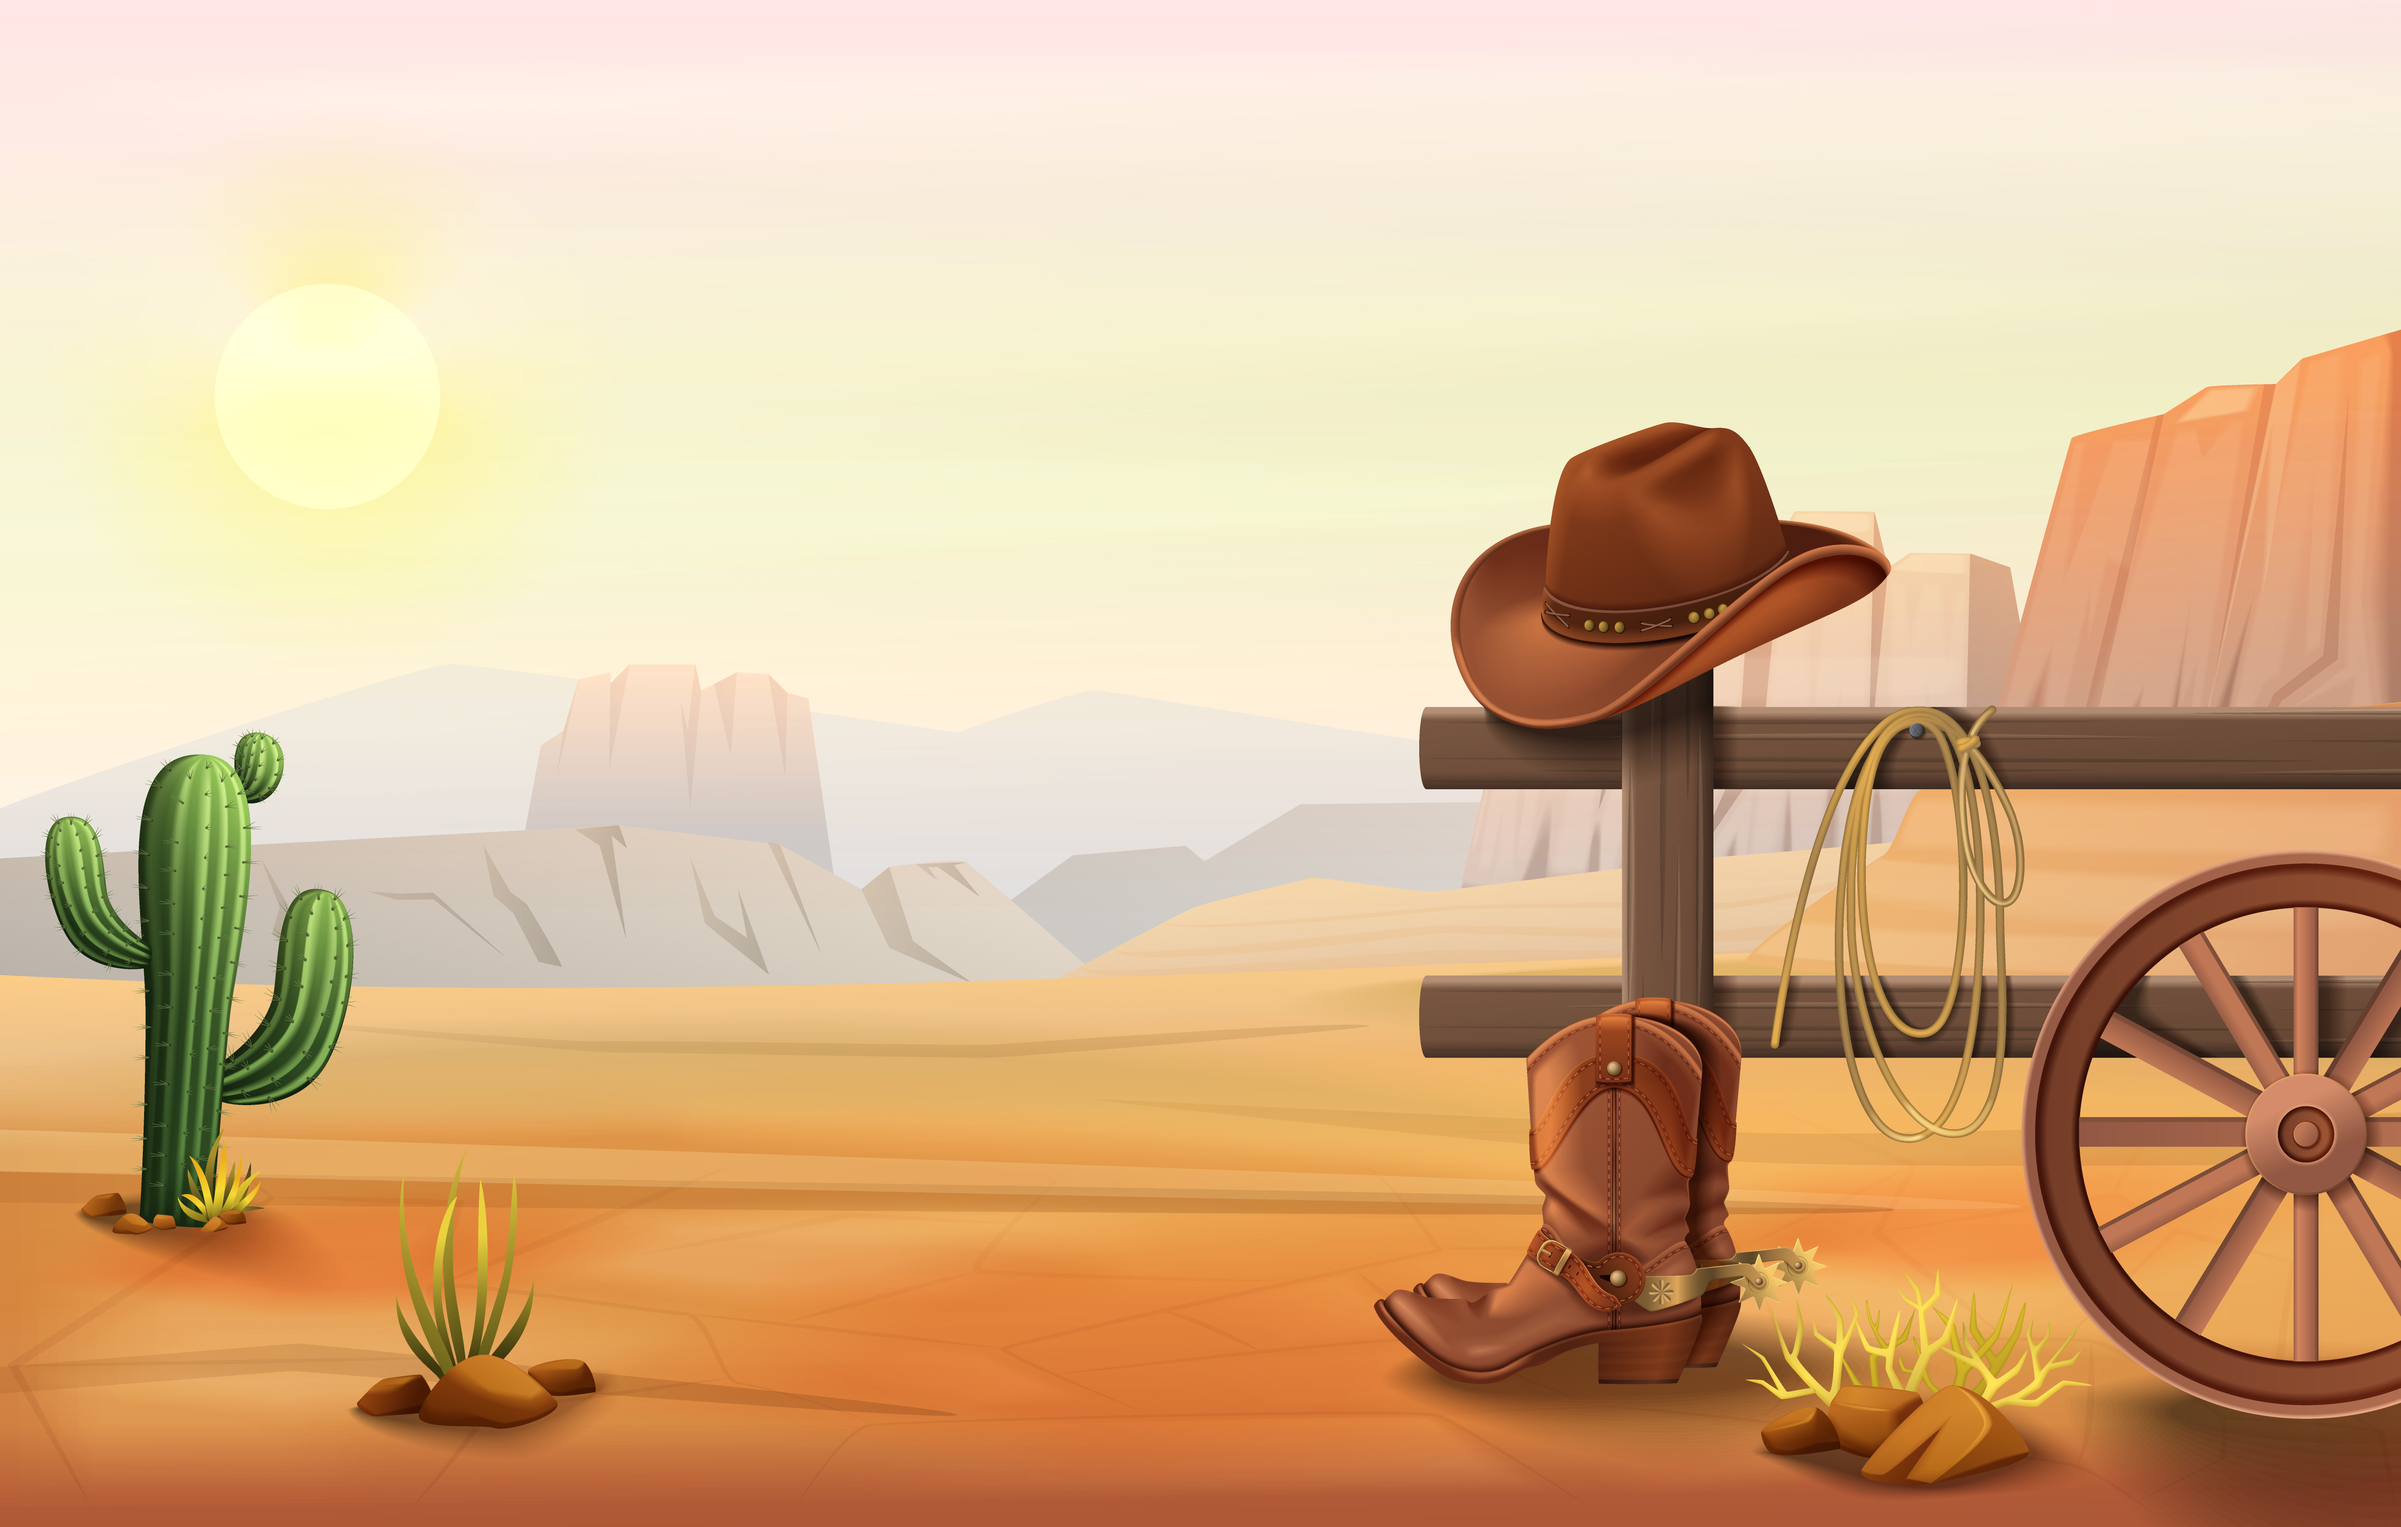
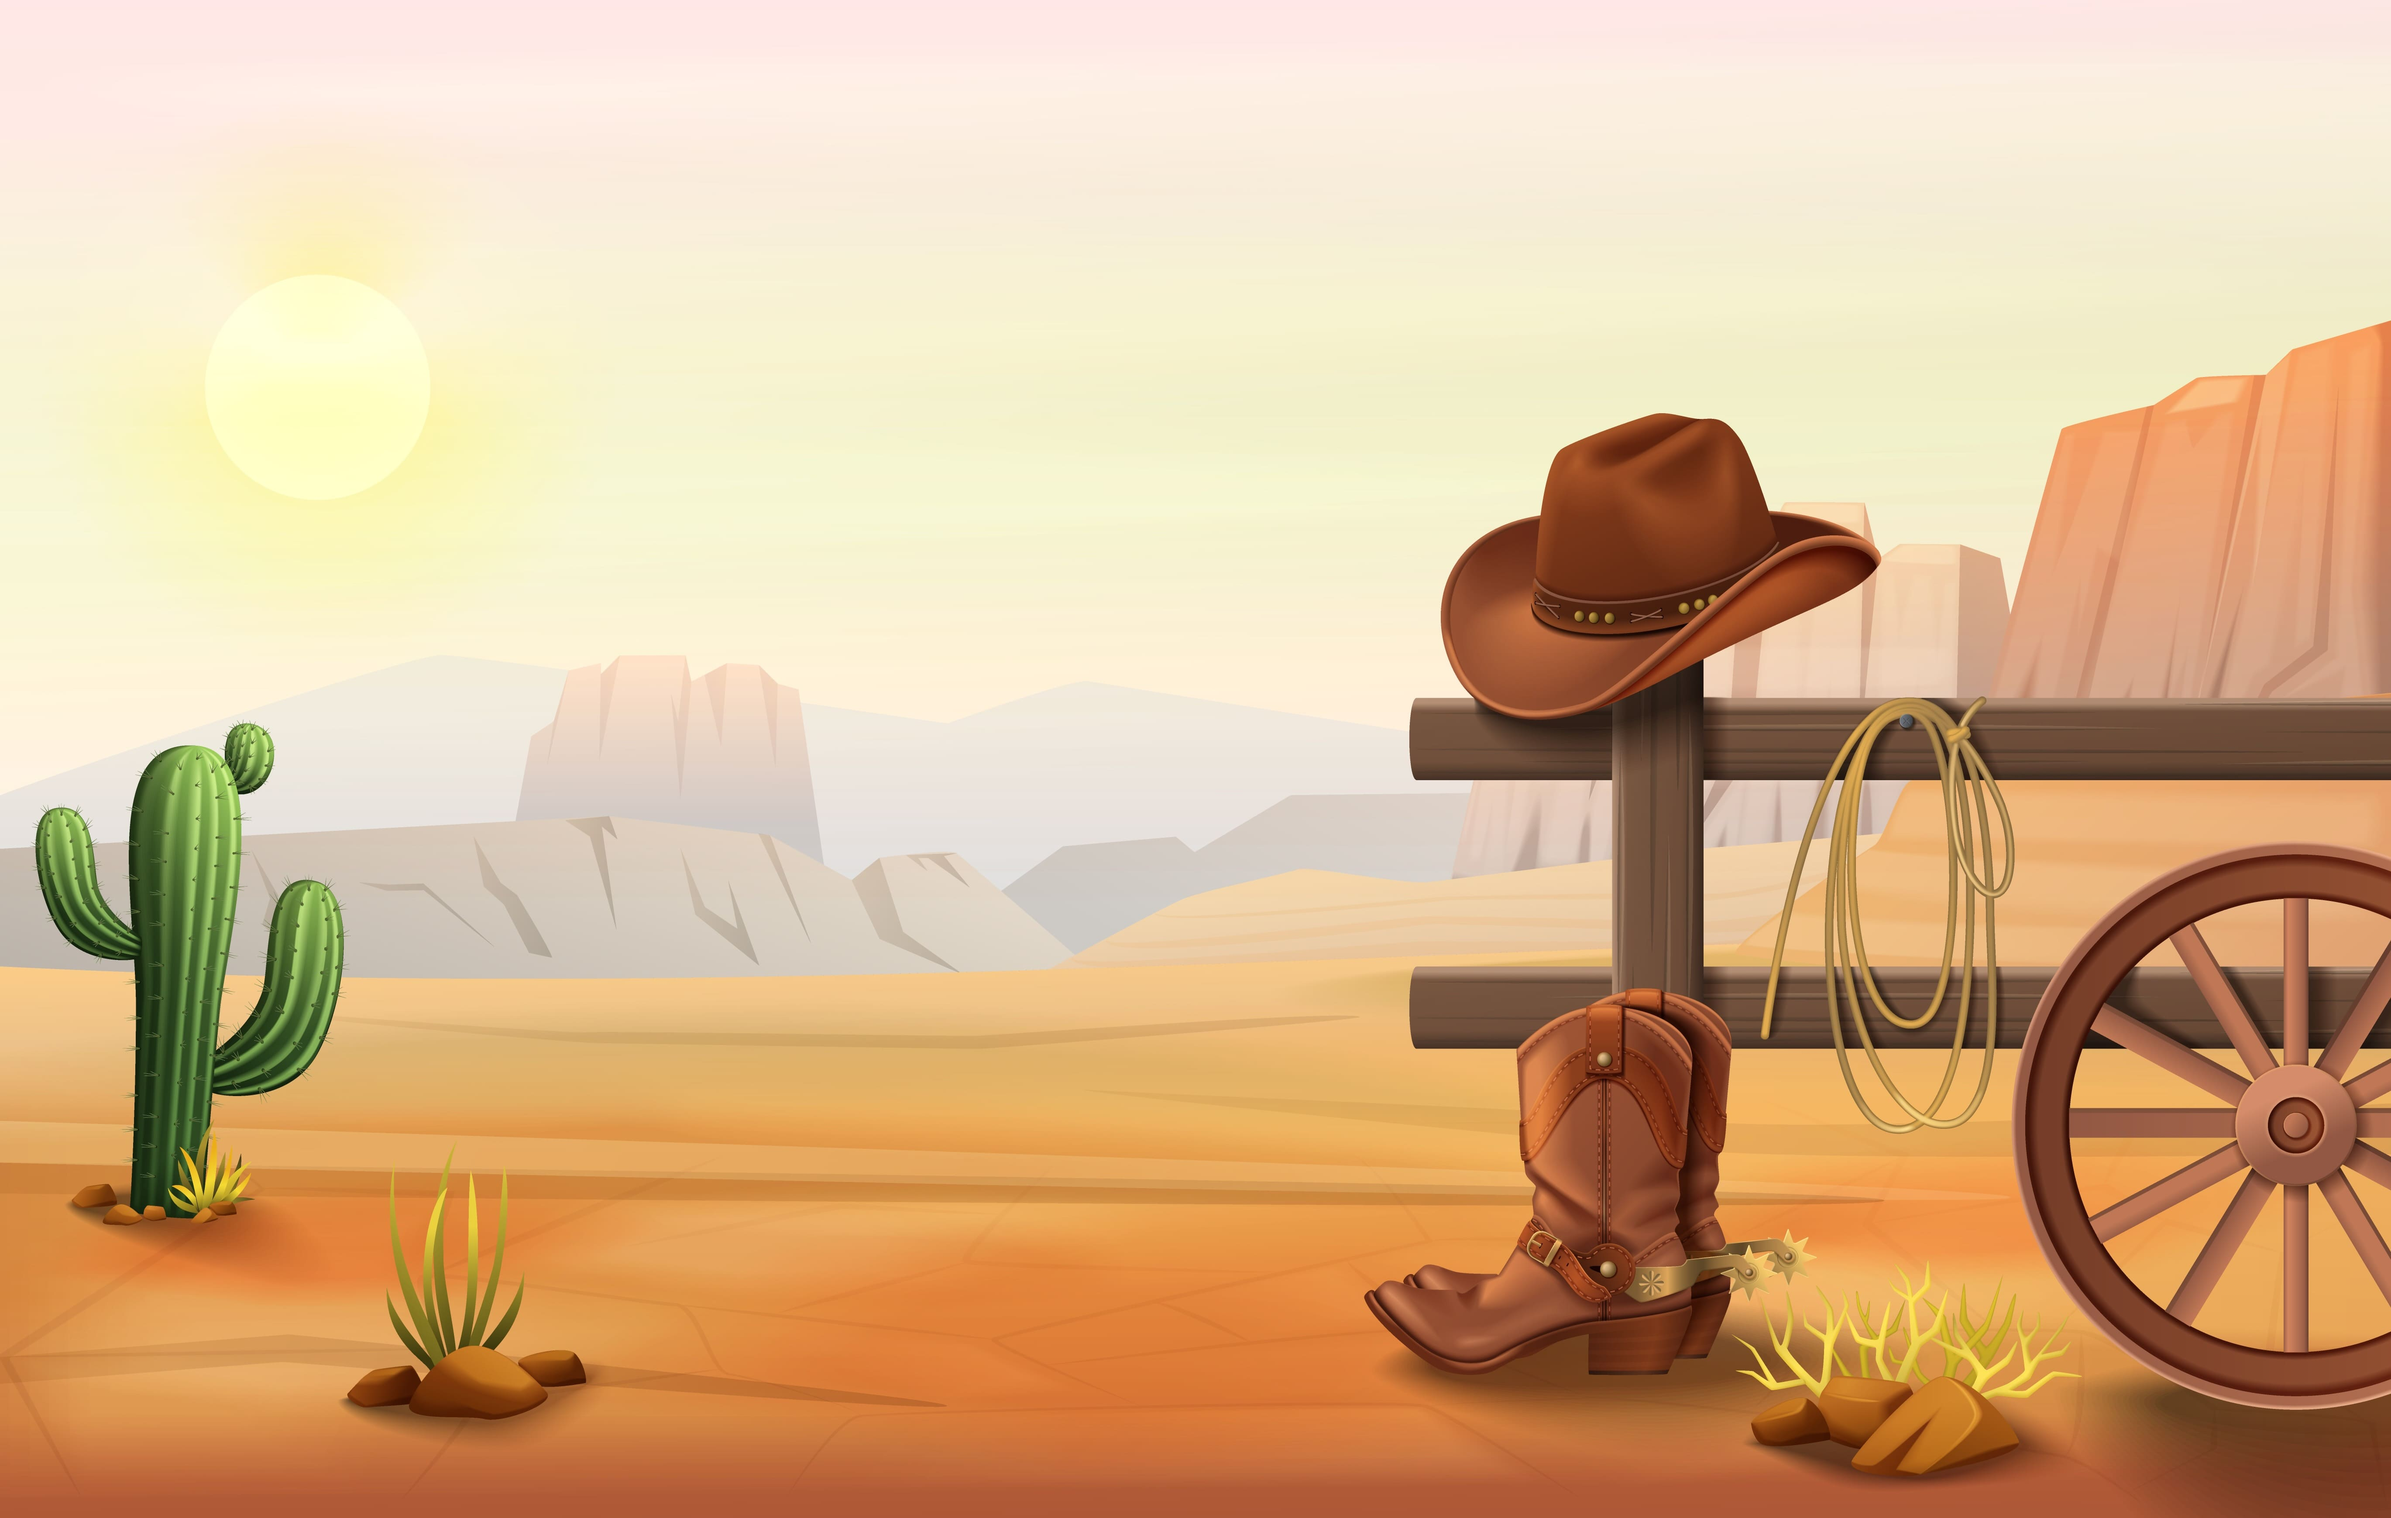
CSS and HTML edited

diff --git a/style copy.css b/style copy.css
@@ -29,19 +29,9 @@ h1 {
     max-width: 720px;
     height: auto;
     aspect-ratio: 720 / 480;
-    display: flex;
-    justify-content: center;
-    align-items: center;
 }
 
-canvas {
-    width: 100%;
-    height: 100%;
-    object-fit: contain;
-    display: block;
-}
-
-#start-screen {
+/* #start-screen {
     position: absolute;
     top: 0;
     left: 0;
@@ -53,31 +43,20 @@ canvas {
     align-items: center;
     z-index: 10;
     background-color: rgba(0, 0, 0, 0.5);
-}
-
-.bg-img {
-    width: 100%;
-    height: 100%;
-    object-fit: cover;
-    position: absolute;
-    top: 0;
-    left: 0;
-    z-index: -1;
-}
+} */
 
 #start_btn,
 #restart_btn {
     position: absolute;
-    top: 22%;
-    left: 7%;
-    font-size: clamp(24px, 6.5cqw, 48px);
+    top: 100px;
+    left: 50px;
+    font-size: 48px;
     font-family: 'Cowboy Outlaw', sans-serif;
     color: black;
     border: none;
     cursor: pointer;
     margin: 0;
     text-shadow: 1px 1px 2px black;
-    z-index: 11;
 }
 
 #start_btn:hover,
@@ -93,13 +72,17 @@ canvas {
     display: none !important;
 }
 
+canvas {
+    /* background-color: black; */
+    display: block;
+}
+
 #all-btn {
     display: flex;
     flex-direction: row;
     width: 720px;
     justify-content: space-between;
 }
-
 #btn {
     display: flex;
     flex-direction: row;
@@ -136,7 +119,6 @@ canvas {
     pointer-events: none;
     
 }
-
 #hud:not(.d-none) {
     display: none !important;
 }
@@ -147,7 +129,6 @@ canvas {
     width: 100%;
     pointer-events: auto;
 }
-
 .panel-wrapper {
     display: flex;
     gap: 2vw;
@@ -181,15 +162,29 @@ canvas {
     margin: 0;
 }
 
+/* HANDY DREHEN*/
+
+/* Das Overlay-Design */
 #rotate-device-overlay {
-    display: none;
+    position: fixed;
+    top: 0;
+    left: 0;
+    width: 100%;
+    height: 100%;
+    background-color: rgba(0, 0, 0, 0.9); /* Fast schwarzer Hintergrund */
+    z-index: 999; /* Ganz nach vorne bringen */
+    display: flex;
+    justify-content: center;
+    align-items: center;
+    color: white;
+    text-align: center;
 }
 
 .overlay-content img {
-    width: 200px;
+    width: 200px; /* Ein Icon eines rotierenden Handys */
     margin-bottom: 20px;
     filter: invert(1);
-    animation: rotate 2s infinite ease-in-out;
+    animation: rotate 2s infinite ease-in-out; /* Eine kleine Animation */
 }
 
 @keyframes rotate {
@@ -213,29 +208,24 @@ canvas {
     }
 }
 
-@media (orientation: portrait) and (pointer: coarse) {
-    #rotate-device-overlay {
-        position: fixed;
-        top: 0;
-        left: 0;
-        width: 100%;
-        height: 100%;
-        background-color: rgba(0, 0, 0, 0.9);
-        z-index: 999;
-        display: flex !important;
-        justify-content: center;
-        align-items: center;
-        color: white;
-        text-align: center;
+@media only screen and (max-height: 480px) {
+    canvas {
+        height: 100vh;
     }
+}
+
+@media (orientation: portrait) {
+    #rotate-device-overlay {
+        display: flex !important;
+    }
+    
 
     #game-container, #title, h1, #all-btn {
         display: none !important;
     }
 }
 
-/* Wenn das Touch-Gerät im Querformat ist, Overlay sicher ausblenden */
-@media (orientation: landscape) and (pointer: coarse) {
+@media (orientation: landscape) {
     #rotate-device-overlay {
         display: none !important;
     }

diff --git a/index.html b/index.html
@@ -49,7 +49,7 @@
     </div>
     <div id="game-container">
         <div id="start-screen">
-            <!-- <img class="bg-img" src="./img/9_intro_outro_screens/start/startscreen_1.png" height="480px" width="720px"> -->
+            <img class="bg-img" src="./img/9_intro_outro_screens/start/startscreen_1.png">
             <p onclick="startGame()" id="start_btn">Spiel Starten</p>
         </div>
         <div id="game-over-screen" class="d-none">
